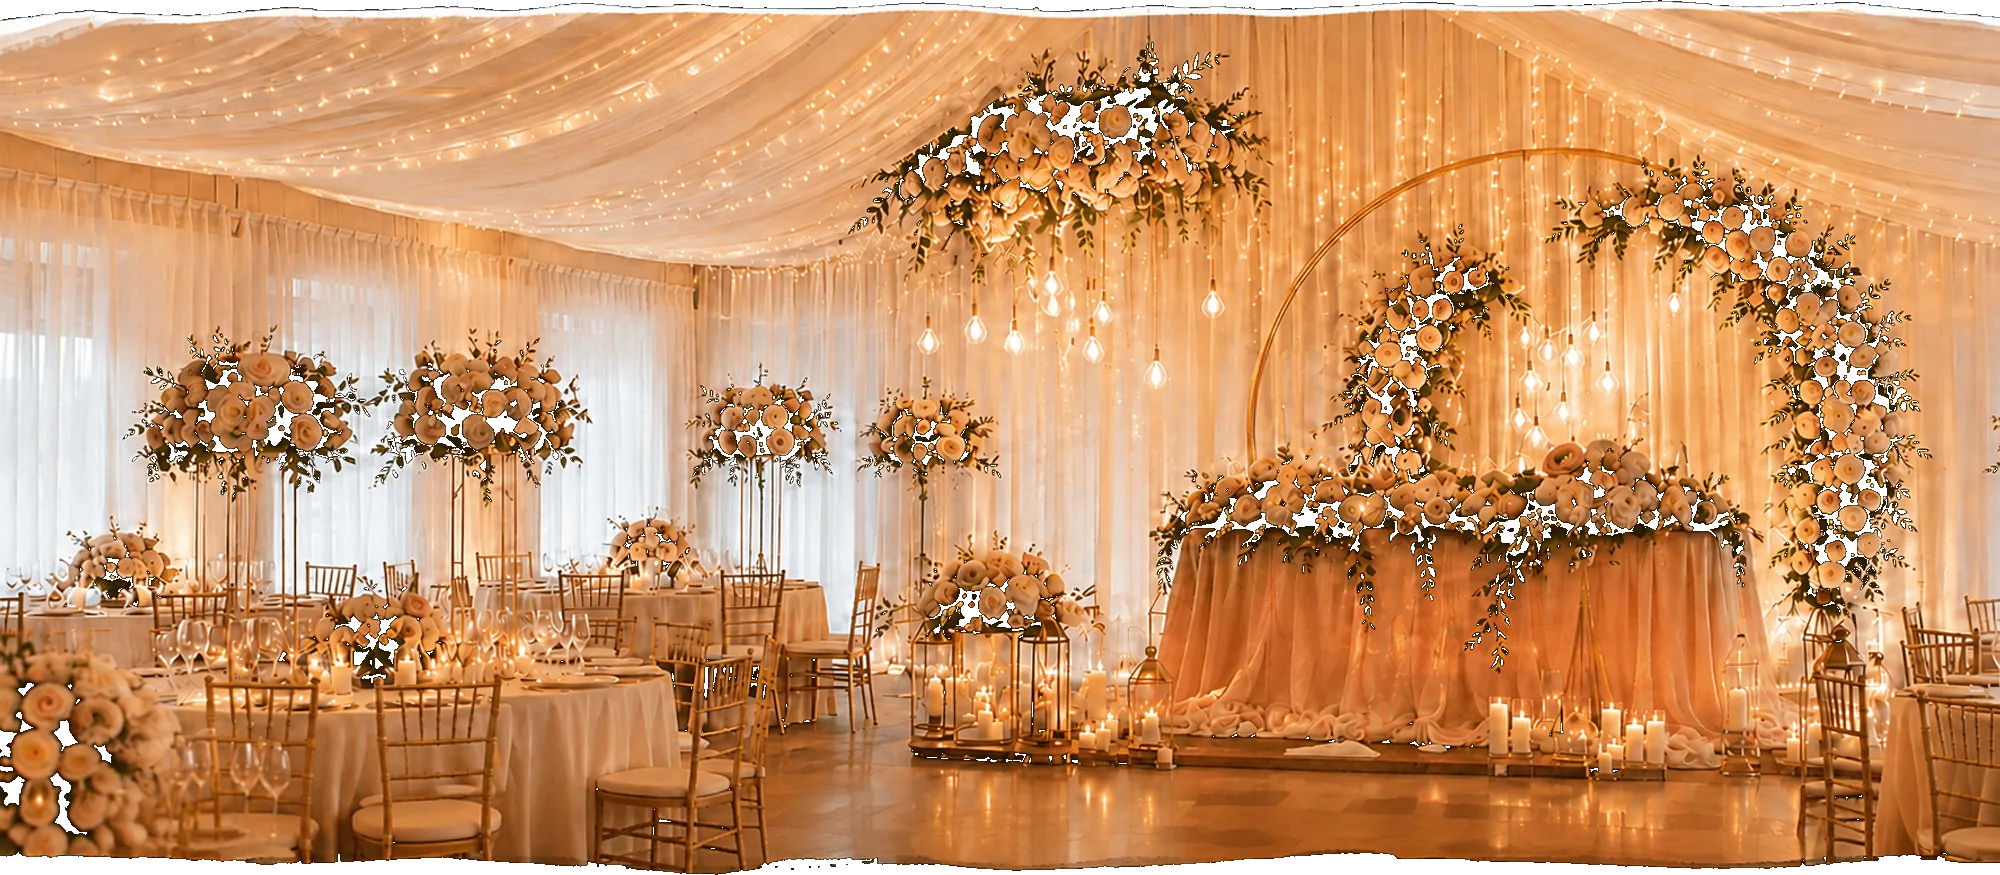
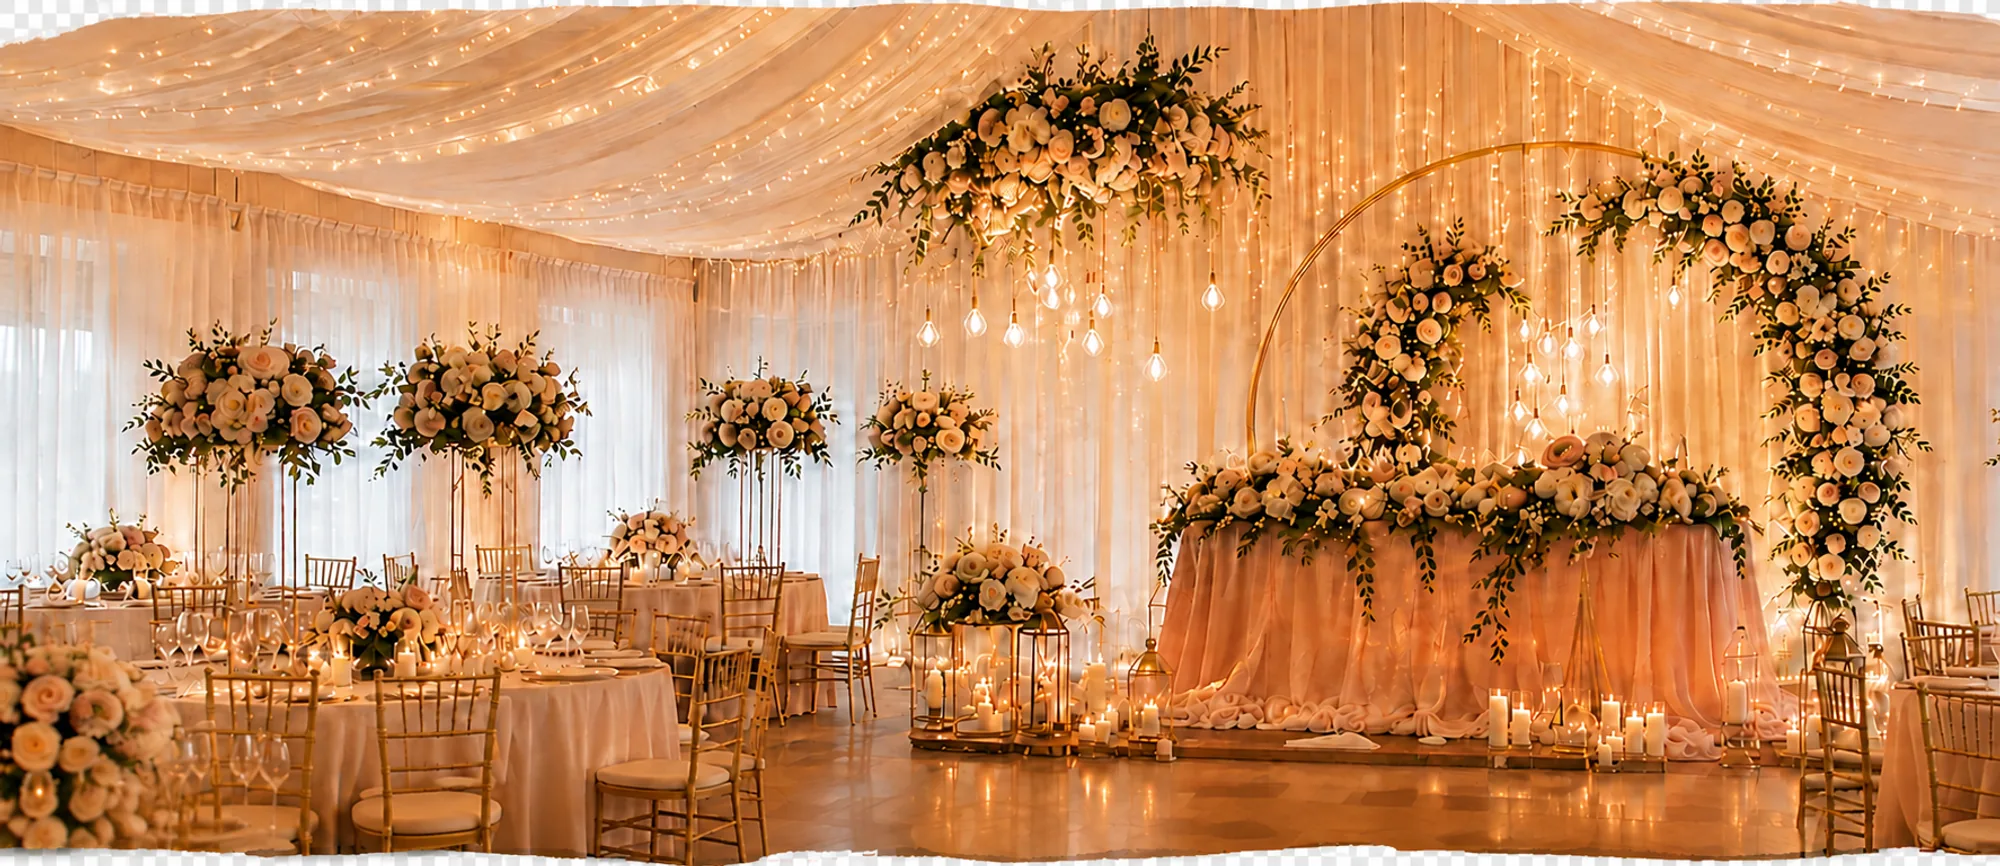
Hero: imaginea nouă, cu alfa deja în sursă

diff --git a/src/components/home/Hero.jsx b/src/components/home/Hero.jsx
@@ -16,7 +16,7 @@ export default function Hero() {
           src="/images/hero.webp"
           alt=""
           width={2000}
-          height={875}
+          height={866}
           sizes="100vw"
           quality={82}
           priority
